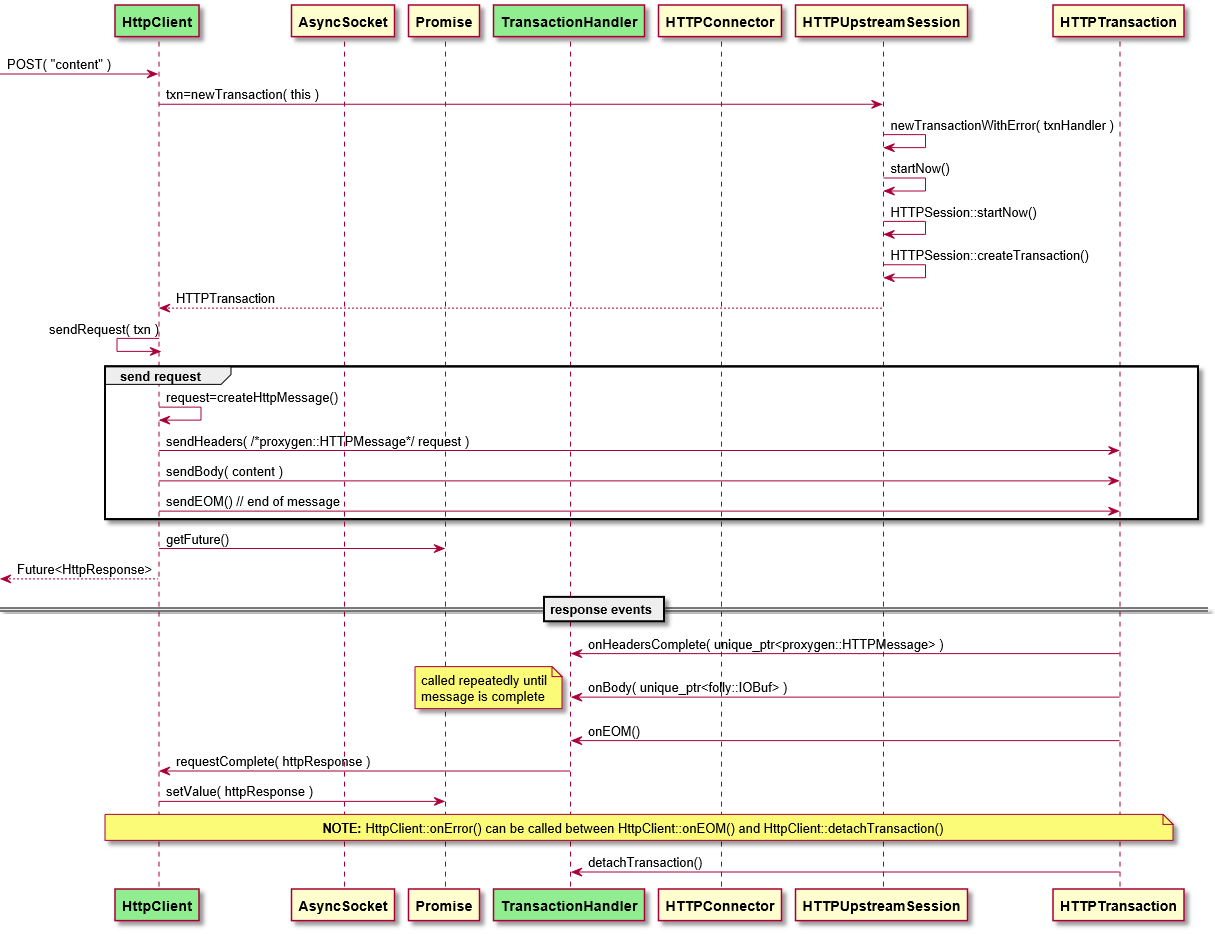
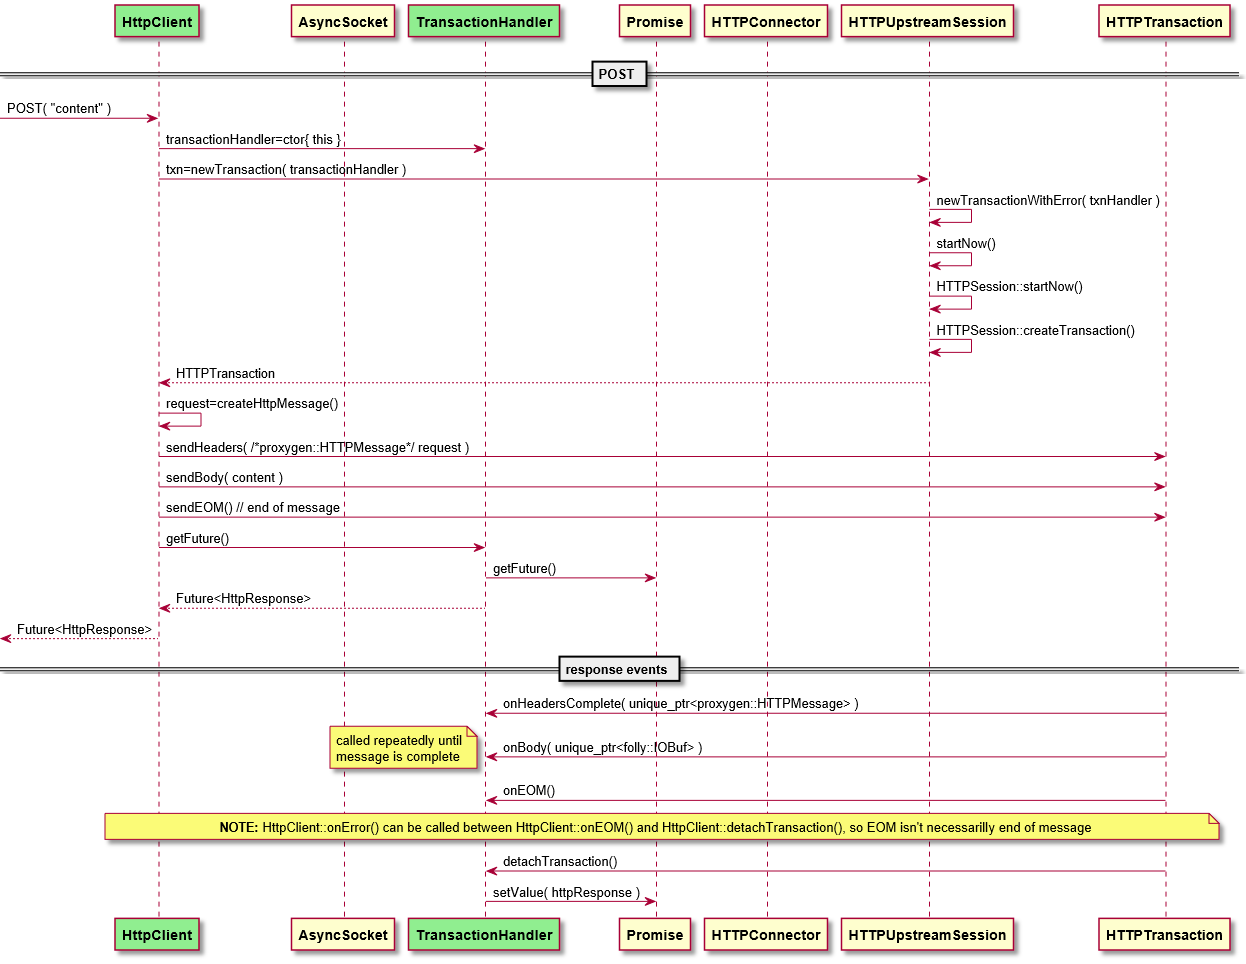
move request promise to TransactionHandler (#11)
* separate httpclient into lib

* move request promise to TransactionHandler

diff --git a/lib/TransactionHandler.cpp b/lib/TransactionHandler.cpp
@@ -1,0 +1,67 @@
+#include "TransactionHandler.h"
+
+#include "HttpClient.h"
+
+
+folly::Future<HttpResponse> TransactionHandler::getFuture() {
+    if (requestPromise_) {
+        throw std::runtime_error("Cannot call TransactionHandler::getFuture() twice");
+    }
+
+    requestPromise_ = std::make_unique<folly::Promise<HttpResponse>>();
+    return requestPromise_->getFuture();
+}
+
+
+void TransactionHandler::setTransaction(proxygen::HTTPTransaction* txn) noexcept {
+    // first event. txn is good until detachTransaction()
+}
+
+
+void TransactionHandler::detachTransaction() noexcept {
+    // requestPromise_ will be reset if onError() is called
+    if (requestPromise_) {
+        std::string body = inputBuf_->moveToFbString().toStdString();
+        HttpResponse httpResponse{response_->getStatusCode(), std::move(body)};
+
+        requestPromise_->setValue(std::move(httpResponse));
+        requestPromise_.reset();
+    }
+
+    // this could be reused instead of deleted.
+    delete this;
+}
+
+
+void TransactionHandler::onHeadersComplete(std::unique_ptr<proxygen::HTTPMessage> msg) noexcept {
+    response_ = std::move(msg);
+    //response_.dumpMessage(4);
+}
+
+
+void TransactionHandler::onBody(std::unique_ptr<folly::IOBuf> link) noexcept {
+    if (!link) {
+        return;
+    }
+
+    // IOBuf is a circular linked list.
+    if (inputBuf_) {
+        inputBuf_->prependChain(std::move(link));
+    } else {
+        inputBuf_ = std::move(link);
+    }
+}
+
+
+void TransactionHandler::onEOM() noexcept {
+    // onError() can be called after onEOM().  I'm not sure why but maybe
+    // onTrailers() could be called after this.  Whatever the reason we
+    // cannot set the request promise here safely.
+}
+
+
+void TransactionHandler::onError(const proxygen::HTTPException& error) noexcept {
+    requestPromise_->setException(error);
+    requestPromise_.reset();
+}
+

diff --git a/lib/HttpClient.cpp b/lib/HttpClient.cpp
@@ -57,27 +57,25 @@ folly::Future<folly::Unit> HttpClient::connect() {
 
 
 folly::Future<HttpResponse> HttpClient::GET() {
-    auto transactionHandler = new TransactionHandler{this};
+    auto transactionHandler = new TransactionHandler{};
     auto txn = session_->newTransaction(transactionHandler);
 
     txn->sendHeaders(createHttpMessage(proxygen::HTTPMethod::GET));
     txn->sendEOM();
 
-    requestPromise_.reset(new folly::Promise<HttpResponse>{});
-    return requestPromise_->getFuture();
+    return transactionHandler->getFuture();
 }
 
 
 folly::Future<HttpResponse> HttpClient::POST(const std::string& content) {
-    auto transactionHandler = new TransactionHandler{this};
+    auto transactionHandler = new TransactionHandler{};
     auto txn = session_->newTransaction(transactionHandler);
 
     txn->sendHeaders(createHttpMessage(proxygen::HTTPMethod::POST, content.size()));
     txn->sendBody(folly::IOBuf::copyBuffer(content));
     txn->sendEOM();
 
-    requestPromise_.reset(new folly::Promise<HttpResponse>{});
-    return requestPromise_->getFuture();
+    return transactionHandler->getFuture();
 }
 
 
@@ -139,17 +137,5 @@ void HttpClient::connectSuccess(HTTPUpstreamSession* session) {
 void HttpClient::connectError(const folly::AsyncSocketException& e) {
     LOG(ERROR) << "Failed to connect to " << url_.getHostAndPort();
     connectPromise_->setException(e);
-}
-
-
-// REQUEST EVENT HANDLERS
-
-void HttpClient::requestComplete(HttpResponse httpResponse) noexcept {
-    requestPromise_->setValue(std::move(httpResponse));
-}
-
-
-void HttpClient::requestError(const proxygen::HTTPException& error) noexcept {
-    requestPromise_->setException(error);
 }
 

diff --git a/lib/HttpClient.h b/lib/HttpClient.h
@@ -10,24 +10,6 @@
 
 #include <chrono>
 
-class HttpResponse {
-    uint16_t status_;
-    std::string content_;
-public:
-    HttpResponse(uint16_t status, std::string content)
-        : status_{status}
-        , content_(std::move(content))
-    {}
-
-    uint16_t status() const {
-        return status_;
-    }
-
-    std::string content() const {
-        return content_;
-    }
-};
-
 
 // TODO: make a simpler HttpClient and move this to .cpp
 class HttpClient : public proxygen::HTTPConnector::Callback {
@@ -54,10 +36,6 @@ protected:
     void connectSuccess(proxygen::HTTPUpstreamSession*) override;
     void connectError(const folly::AsyncSocketException&) override;
 
-    // called from TransactionHandler
-    void requestComplete(HttpResponse) noexcept;
-    void requestError(const proxygen::HTTPException&) noexcept;
-
 private:
     proxygen::HTTPMessage createHttpMessage(proxygen::HTTPMethod, size_t contentLength=0);
 
@@ -67,17 +45,13 @@ private:
 
     proxygen::HTTPUpstreamSession* session_;
 
-    proxygen::HTTPTransaction* txn_{nullptr};
-
     std::unique_ptr<folly::IOBuf> inputBuf_;
 
     std::unique_ptr<proxygen::HTTPConnector> httpConnector_;
 
     std::unique_ptr<folly::Promise<folly::Unit>> connectPromise_;
-    std::unique_ptr<folly::Promise<HttpResponse>> requestPromise_;
 
     // for metrics
     std::chrono::time_point<std::chrono::high_resolution_clock> connectStartTime_;
-
 };
 

diff --git a/lib/TransactionHandler.h b/lib/TransactionHandler.h
@@ -3,19 +3,37 @@
 #include <proxygen/lib/http/session/HTTPTransaction.h>
 
 
+class HttpResponse {
+    uint16_t status_;
+    std::string content_;
+public:
+    HttpResponse(uint16_t status, std::string content)
+        : status_{status}
+        , content_(std::move(content))
+    {}
+
+    uint16_t status() const {
+        return status_;
+    }
+
+    std::string content() const {
+        return content_;
+    }
+};
+
+
 class TransactionHandler : public proxygen::HTTPTransactionHandler {
-
-    class HttpClient* httpClient_;
-
-    // This is assigned in the beginning of a transaction with setTransaction()
-    // event and it is good until detachTransaction()
-    proxygen::HTTPTransaction* txn_{nullptr};
-
     std::unique_ptr<proxygen::HTTPMessage> response_;
     std::unique_ptr<folly::IOBuf> inputBuf_;
-public:
-    explicit TransactionHandler(HttpClient* httpClient) : httpClient_{httpClient} {}
+    std::unique_ptr<folly::Promise<HttpResponse>> requestPromise_;
 
+public:
+    TransactionHandler()
+    {}
+
+    folly::Future<HttpResponse> getFuture();
+
+protected:
     void setTransaction(proxygen::HTTPTransaction*) noexcept override;
     void detachTransaction() noexcept override;
 
@@ -31,4 +49,3 @@ public:
     void onEgressResumed() noexcept override {}
     void onEgressPaused() noexcept override {}
 };
-
